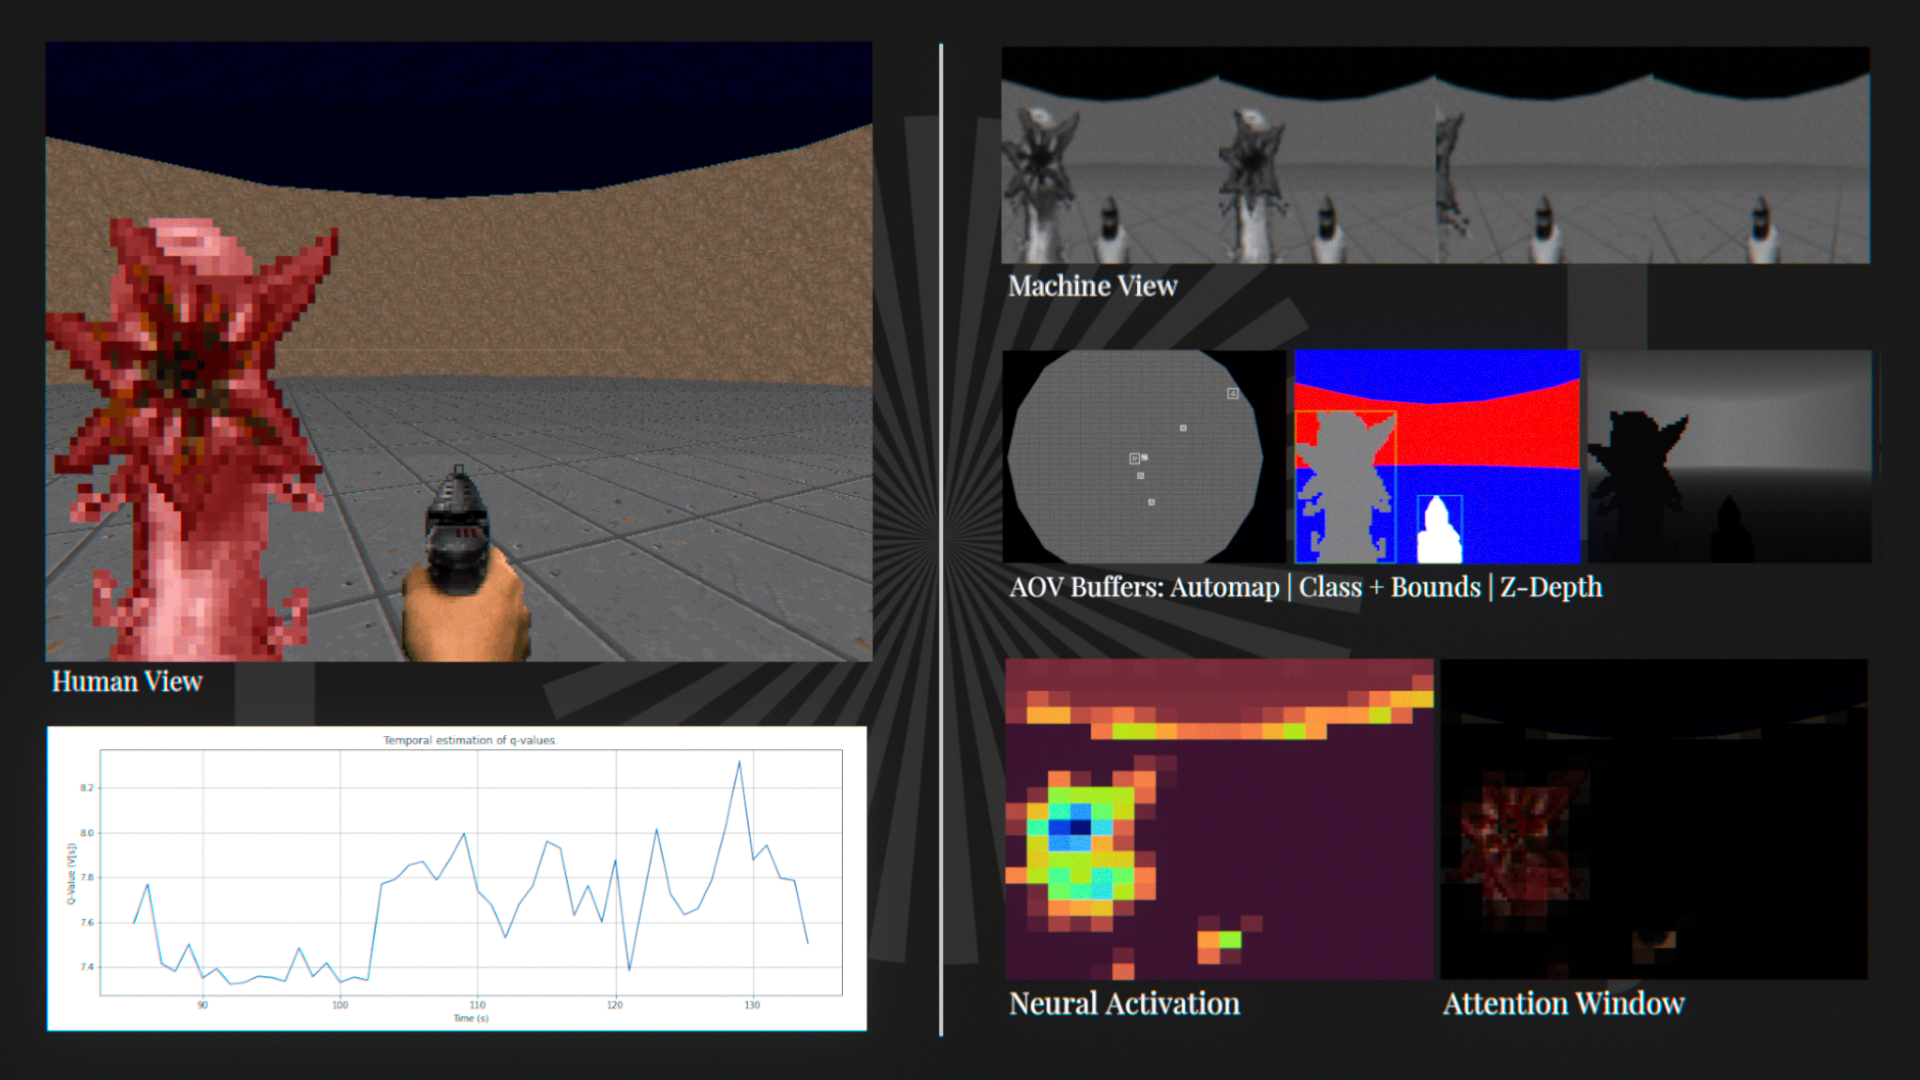
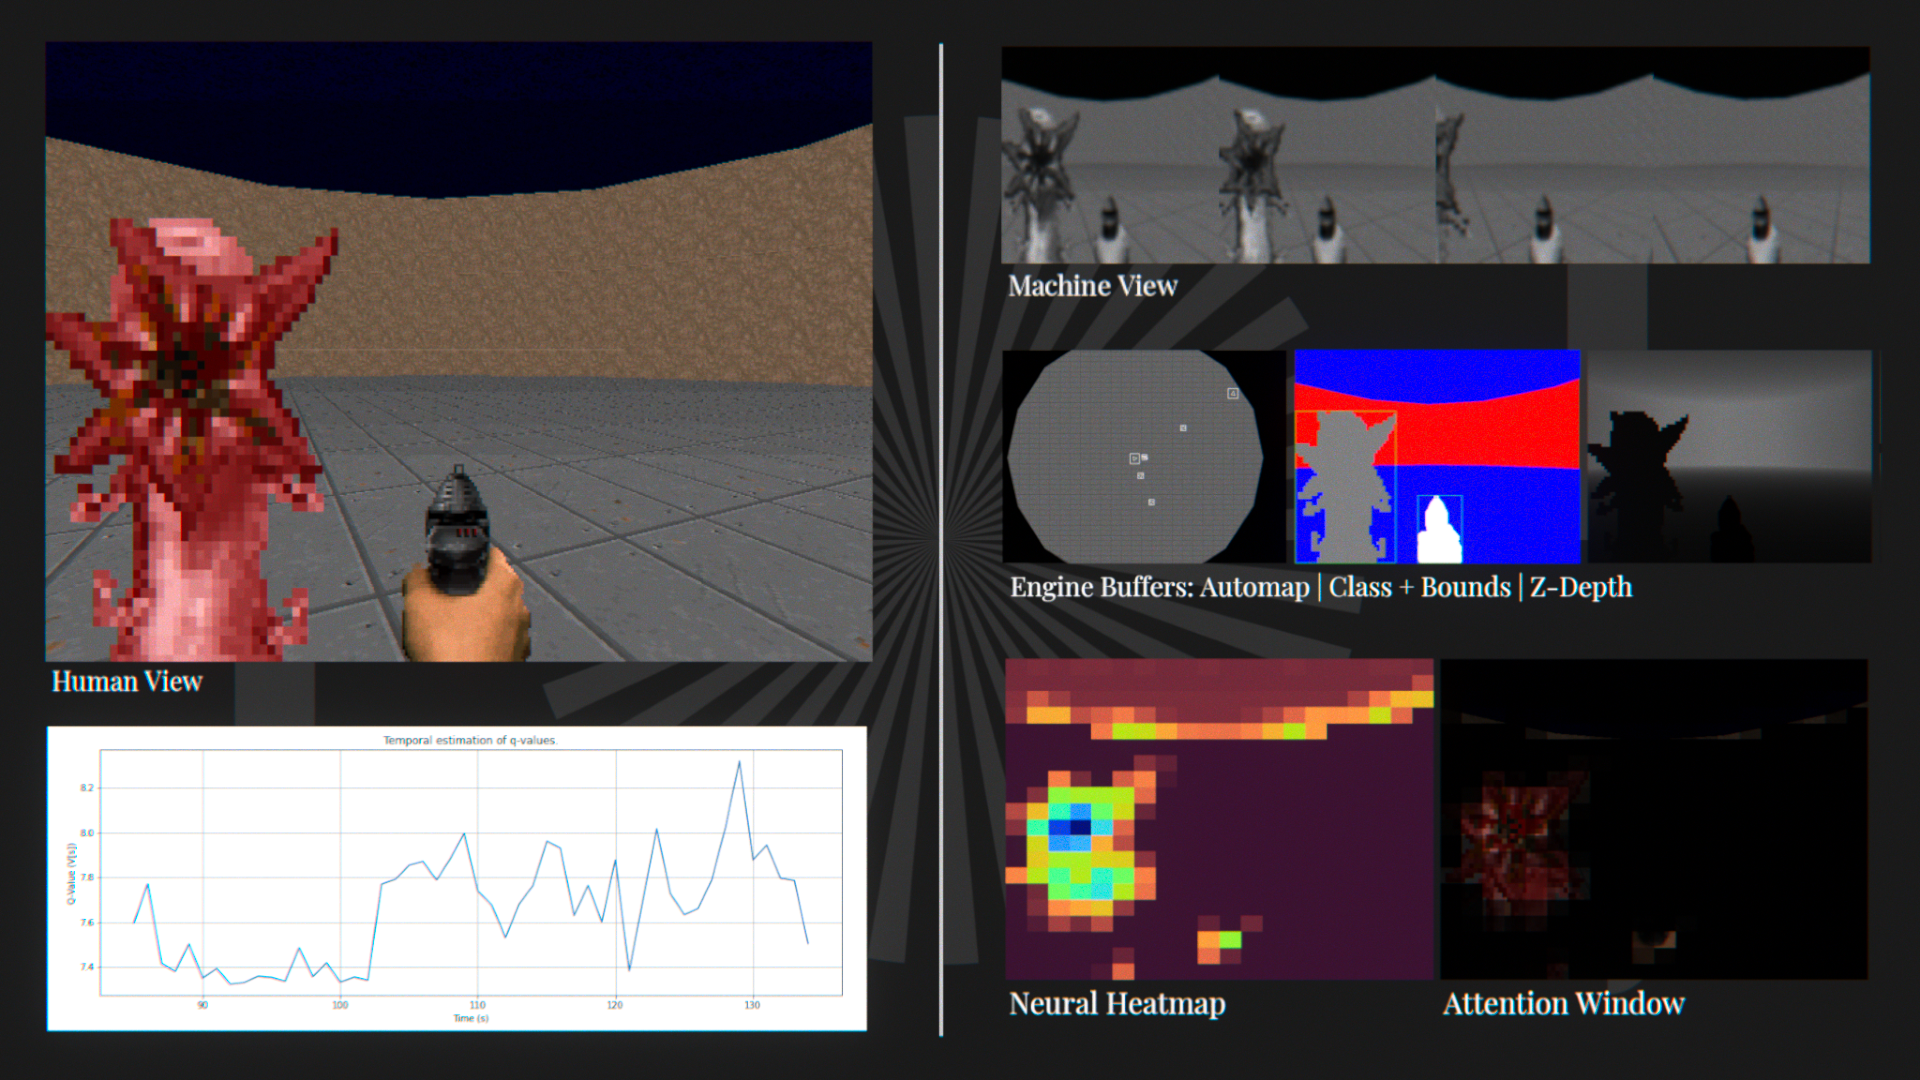
Update files via upload

Changed region(s): [[0.5312, 0.5194, 0.8438, 0.5806], [0.5625, 0.9167, 0.6562, 0.9472]]

diff --git a/README.md b/README.md
@@ -9,8 +9,10 @@ Abstract: *Reinforcement learning is the field of computer science concerned wit
 
 ### Build
 - Deep Q-Network: DQN | DoubleDQN | DuelingDQN | Prioritized Experience Replay | Fixed & Soft Targets
-- Policy Gradient: REINFORCE | Advantage Actor-Critic (A2C) | Asynchronous Advantage Actor Critic (A3C)
-- Vizualisation: Engine Buffers | Attention Window | Neural Heatmap | Q-Score | Confidence Plot
+- Policy Gradient: REINFORCE | Advantage Actor-Critic (A2C)
+- Vizualisation: Engine Buffers | Attention Window | Neural Heatmap | Q-Confidence Plot
+
+- In-Development: Asynchronous Advantage Actor Critic (A3C) | Proximal Policy Optimization (PPO)
 
 ### Packages
 `gym` `vizdoom` `tensorflow-2.x` `numpy` `imageio` `matplotlib` `yaml`
